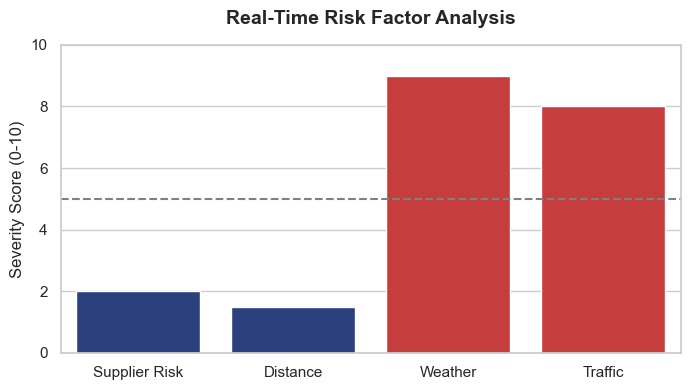
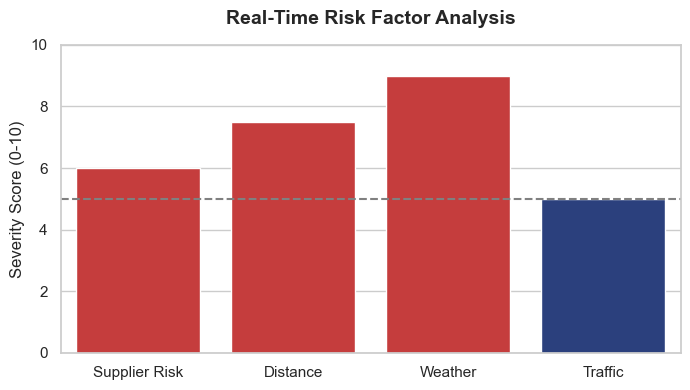
Added Gemini AI and secure .env file

Changed region(s): [[0.7609, 0.2462, 0.9739, 0.9231], [0.3348, 0.3077, 0.5174, 0.9231], [0.0913, 0.4308, 0.3043, 0.9231]]

diff --git a/app.py b/app.py
@@ -6,14 +6,17 @@ import matplotlib.pyplot as plt
 import seaborn as sns
 import os
 import time
+from dotenv import load_dotenv
+import google.generativeai as genai
 
-# PREVENT GUI ERRORS 
-import matplotlib
-matplotlib.use('Agg')
+load_dotenv()
 
+GOOGLE_API_KEY = os.environ.get("GOOGLE_API_KEY")
+genai.configure(api_key=GOOGLE_API_KEY)
+
+gemini_model = genai.GenerativeModel('gemini-2.5-flash')
 app = Flask(__name__)
 
-# Load the trained model
 with open('model.pkl', 'rb') as f:
     model = pickle.load(f)
 
@@ -26,78 +29,85 @@ def home():
 
 @app.route('/predict', methods=['POST'])
 def predict():
-    # get data
+    # 1. Get data
     rating = float(request.form['rating'])
     distance = float(request.form['distance'])
     weather = float(request.form['weather'])
     traffic = float(request.form['traffic'])
     vehicle = int(request.form['vehicle']) 
 
-    # predict
+    # 2. Predict using Random Forest
     features = np.array([[rating, distance, weather, traffic, vehicle]])
     prediction = model.predict(features)
     probability = model.predict_proba(features)[0][1]
 
-    # logic for suggestion
-    suggestion = "No specific action needed."
-    result_text = "Low Risk - Supply Chain Stable"
-    css_class = "success"
+    # Map numbers back to text for the Gemini Prompt
+    weather_text = "Adverse/Stormy" if weather == 1 else "Optimal/Clear"
+    vehicle_dict = {0: "Bike", 1: "Car/Van", 2: "Heavy Truck"}
+    vehicle_text = vehicle_dict.get(vehicle, "Unknown")
 
+    # 3. Determine Risk Level
     if prediction[0] == 1:
         result_text = "High Risk of Disruption"
         css_class = "danger"
-        if weather == 1:
-             suggestion = "⚠ Weather Alert: Heavy rain detected. Delay shipment or use waterproof packaging."
-        elif traffic > 7:
-             suggestion = "🚦 Traffic Jam: Route is congested. Reroute driver via alternate highway."
-        elif rating < 3:
-             suggestion = "⭐ Supplier Risk: Vendor reliability is low. Request 'Proof of Dispatch'."
-        else:
-             suggestion = "General Alert: Monitor this shipment closely."
     else:
-        suggestion = "✅ Green Light: Shipment is on track. Proceed with standard schedule."
+        result_text = "Low Risk - Supply Chain Stable"
+        css_class = "success"
 
-    # grapgh
+    prompt = f"""
+    You are an expert Supply Chain and Logistics Consultant. 
+    Analyze this current shipment:
+    - Supplier Reliability Rating: {rating}/5.0
+    - Distance: {distance} km
+    - Weather Conditions: {weather_text}
+    - Traffic Density: {traffic}/10
+    - Vehicle Type: {vehicle_text}
+    
+    The Predictive AI Model has flagged this shipment as: '{result_text}'.
+    
+    Based on these exact parameters, provide a highly professional, 2-sentence actionable recommendation for the logistics manager. Do not use bold text, stars, or formatting. Just output the two sentences.
+    """
+    try:
+        response = gemini_model.generate_content(prompt)
+        suggestion = response.text.strip()
+    except Exception as e:
+        # Fallback if internet drops or API fails
+      suggestion = f"System alert: Monitor this shipment closely. (AI connection error: {str(e)})"
+
+
     rating_risk = (5 - rating) * 2
     distance_risk = min((distance / 2000) * 10, 10)
     weather_risk = 9 if weather == 1 else 2
     traffic_risk = traffic
 
-    # Create a DataFrame for Seaborn
     plot_data = pd.DataFrame({
         'Factor': ['Supplier Risk', 'Distance', 'Weather', 'Traffic'],
         'Severity': [rating_risk, distance_risk, weather_risk, traffic_risk]
     })
 
-    # Set the style
     plt.figure(figsize=(8, 4))
     sns.set_theme(style="whitegrid")
     
-    # Create the Barplot
     colors = ["#1e3a8a" if x < 6 else "#dc2626" for x in plot_data['Severity']]
     ax = sns.barplot(x='Factor', y='Severity', data=plot_data, palette=colors)
     
-    # Add a limit line (Risk Threshold)
     plt.axhline(y=5, color='gray', linestyle='--', label='Risk Threshold')
-
-    # Style tweaks
     plt.title('Real-Time Risk Factor Analysis', fontsize=14, fontweight='bold', pad=15)
     plt.ylim(0, 10)
     plt.ylabel('Severity Score (0-10)')
     plt.xlabel('')
     
-
     timestamp = int(time.time())
     image_path = f'static/images/prediction_plot.png'
     plt.savefig(image_path, bbox_inches='tight', dpi=100)
-    plt.close() # Close plot to free memory
+    plt.close() 
 
 
     return render_template('index.html', 
                            prediction_text=result_text, 
                            prediction_class=css_class, 
                            prob=round(probability*100, 2),
-                           suggestion_text=suggestion,
+                           suggestion_text=suggestion, # THIS IS NOW POWERED BY GEMINI!
                            plot_url=image_path,
                            timestamp=timestamp) 
 

diff --git a/train_model.py b/train_model.py
@@ -1,28 +1,66 @@
 import pandas as pd
+import numpy as np
 from sklearn.model_selection import train_test_split
 from sklearn.ensemble import RandomForestClassifier
 import pickle
+import os
 
-data = {
-    'Supplier_Rating': [5, 2, 4, 1, 5, 3, 2, 4, 1, 5, 4, 2, 3, 1, 5, 2, 4, 3, 1, 5],
-    'Distance_km':     [100, 800, 150, 1200, 50, 400, 900, 200, 1500, 80, 300, 600, 450, 1100, 120, 750, 250, 500, 1300, 90],
-    'Weather_Factor':  [0, 1, 0, 1, 0, 1, 1, 0, 1, 0, 0, 1, 1, 1, 0, 1, 0, 0, 1, 0],
-    'Traffic_Density': [2, 8, 3, 9, 1, 6, 9, 2, 10, 2, 4, 7, 5, 9, 1, 8, 3, 4, 10, 2],
-    'Vehicle_Type':    [0, 2, 1, 2, 0, 1, 2, 0, 2, 0, 1, 2, 1, 2, 0, 2, 1, 0, 2, 0], 
-    'Disruption':      [0, 1, 0, 1, 0, 1, 1, 0, 1, 0, 0, 1, 1, 1, 0, 1, 0, 0, 1, 0]
+file_path = 'kaggle_supply_chain.csv'
+
+if not os.path.exists(file_path):
+    print(f"⚠ ERROR: Could not find '{file_path}'. Please ensure the CSV is in the same folder.")
+    exit()
+
+print("Loading dataset...")
+df = pd.read_csv(file_path)
+
+print("Cleaning data and handling missing values...")
+
+df['Supplier_Rating'] = df['Supplier_Rating'].fillna(df['Supplier_Rating'].median())
+df['Distance_km'] = df['Distance_km'].fillna(df['Distance_km'].median())
+
+df['Weather_Factor'] = df['Weather_Factor'].fillna(df['Weather_Factor'].mode()[0])
+df['Vehicle_Type'] = df['Vehicle_Type'].fillna(df['Vehicle_Type'].mode()[0])
+
+df = df[df['Distance_km'] < 10000]
+
+weather_mapping = {
+    'Sunny': 0, 
+    'Clear': 0, 
+    'Rain': 1, 
+    'Storm': 1, 
+    'Snow': 1
 }
 
-df = pd.DataFrame(data)
+vehicle_mapping = {
+    'Bike': 0, 
+    'Car': 1, 
+    'Van': 1, 
+    'Truck': 2
+}
+
+df['Weather_Factor'] = df['Weather_Factor'].map(weather_mapping)
+df['Vehicle_Type'] = df['Vehicle_Type'].map(vehicle_mapping)
+
+print("Training the Random Forest Algorithm...")
 
 X = df[['Supplier_Rating', 'Distance_km', 'Weather_Factor', 'Traffic_Density', 'Vehicle_Type']]
 y = df['Disruption']
 
+# Split into Training (80%) and Testing (20%) sets
 X_train, X_test, y_train, y_test = train_test_split(X, y, test_size=0.2, random_state=42)
 
+# Initialize and Train the Random Forest
 model = RandomForestClassifier(n_estimators=100, random_state=42)
 model.fit(X_train, y_train)
+
+accuracy = model.score(X_test, y_test)
 
 with open('model.pkl', 'wb') as f:
     pickle.dump(model, f)
 
-print("Model successfully trained")
+print("-" * 40)
+print(f"✅ Data processing complete! ({len(df)} rows used)")
+print(f"📊 Model Accuracy on Test Data: {round(accuracy * 100, 2)}%")
+print("✅ AI Brain successfully saved as 'model.pkl'")
+print("-" * 40)
